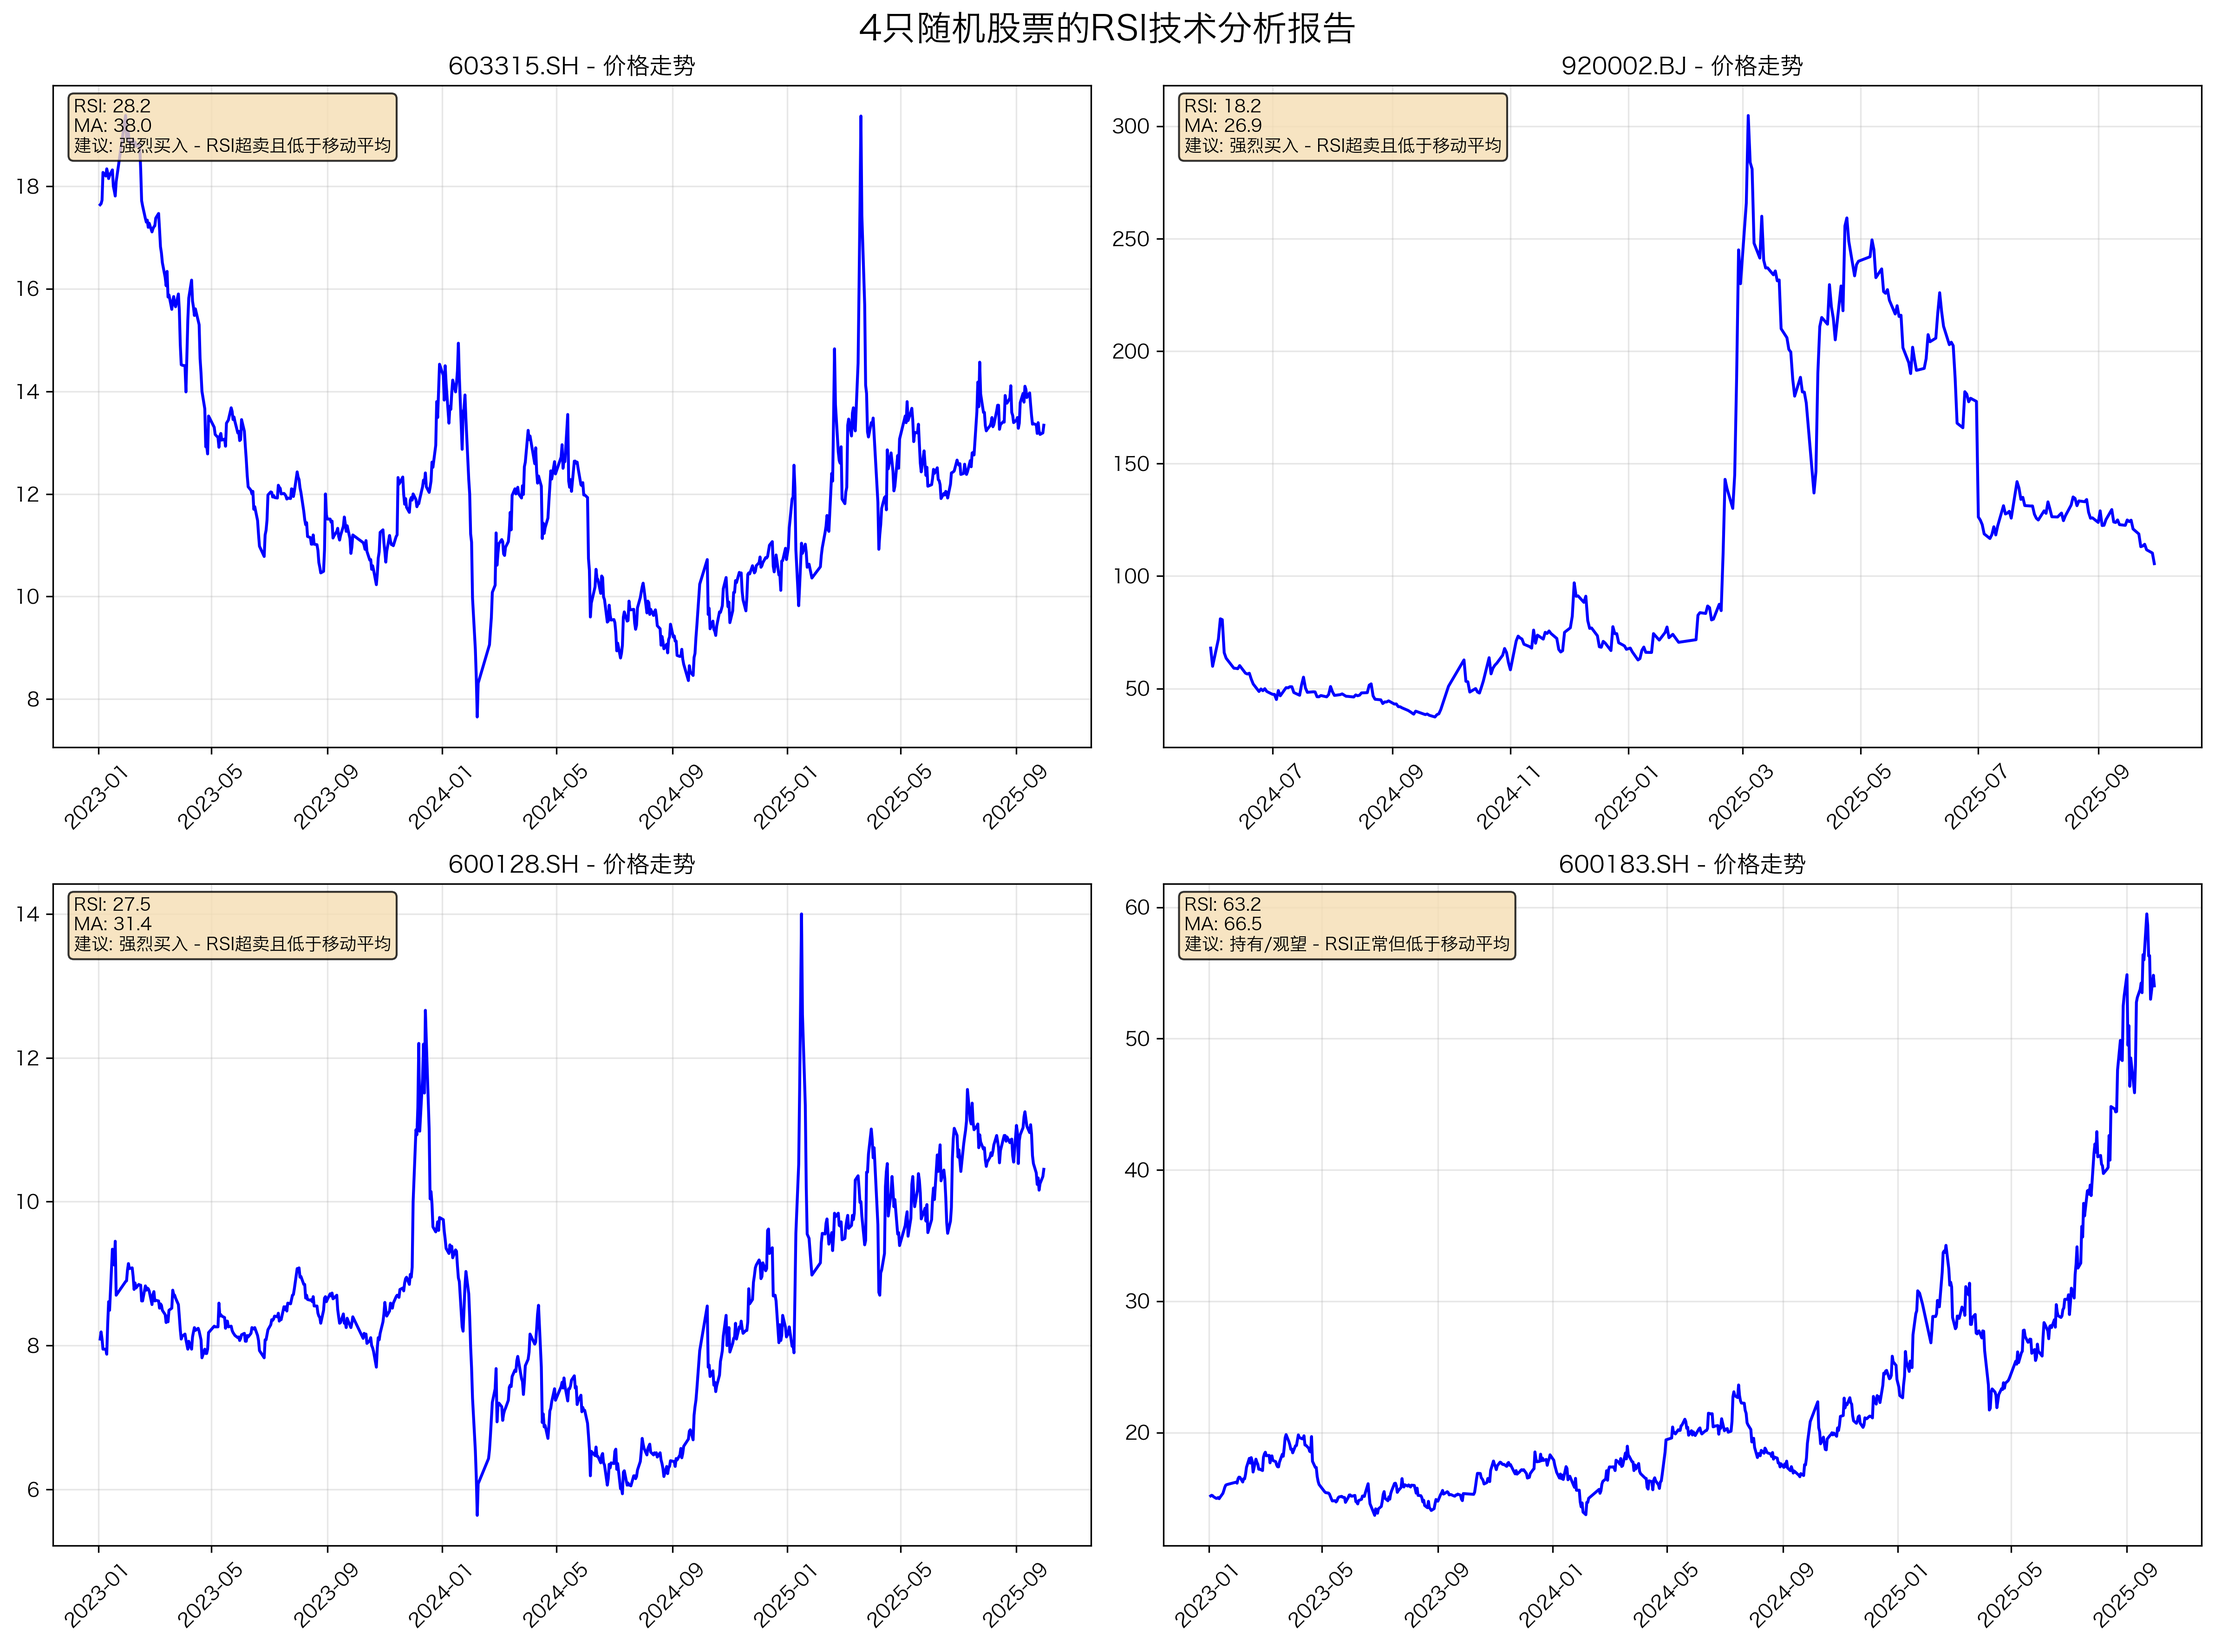
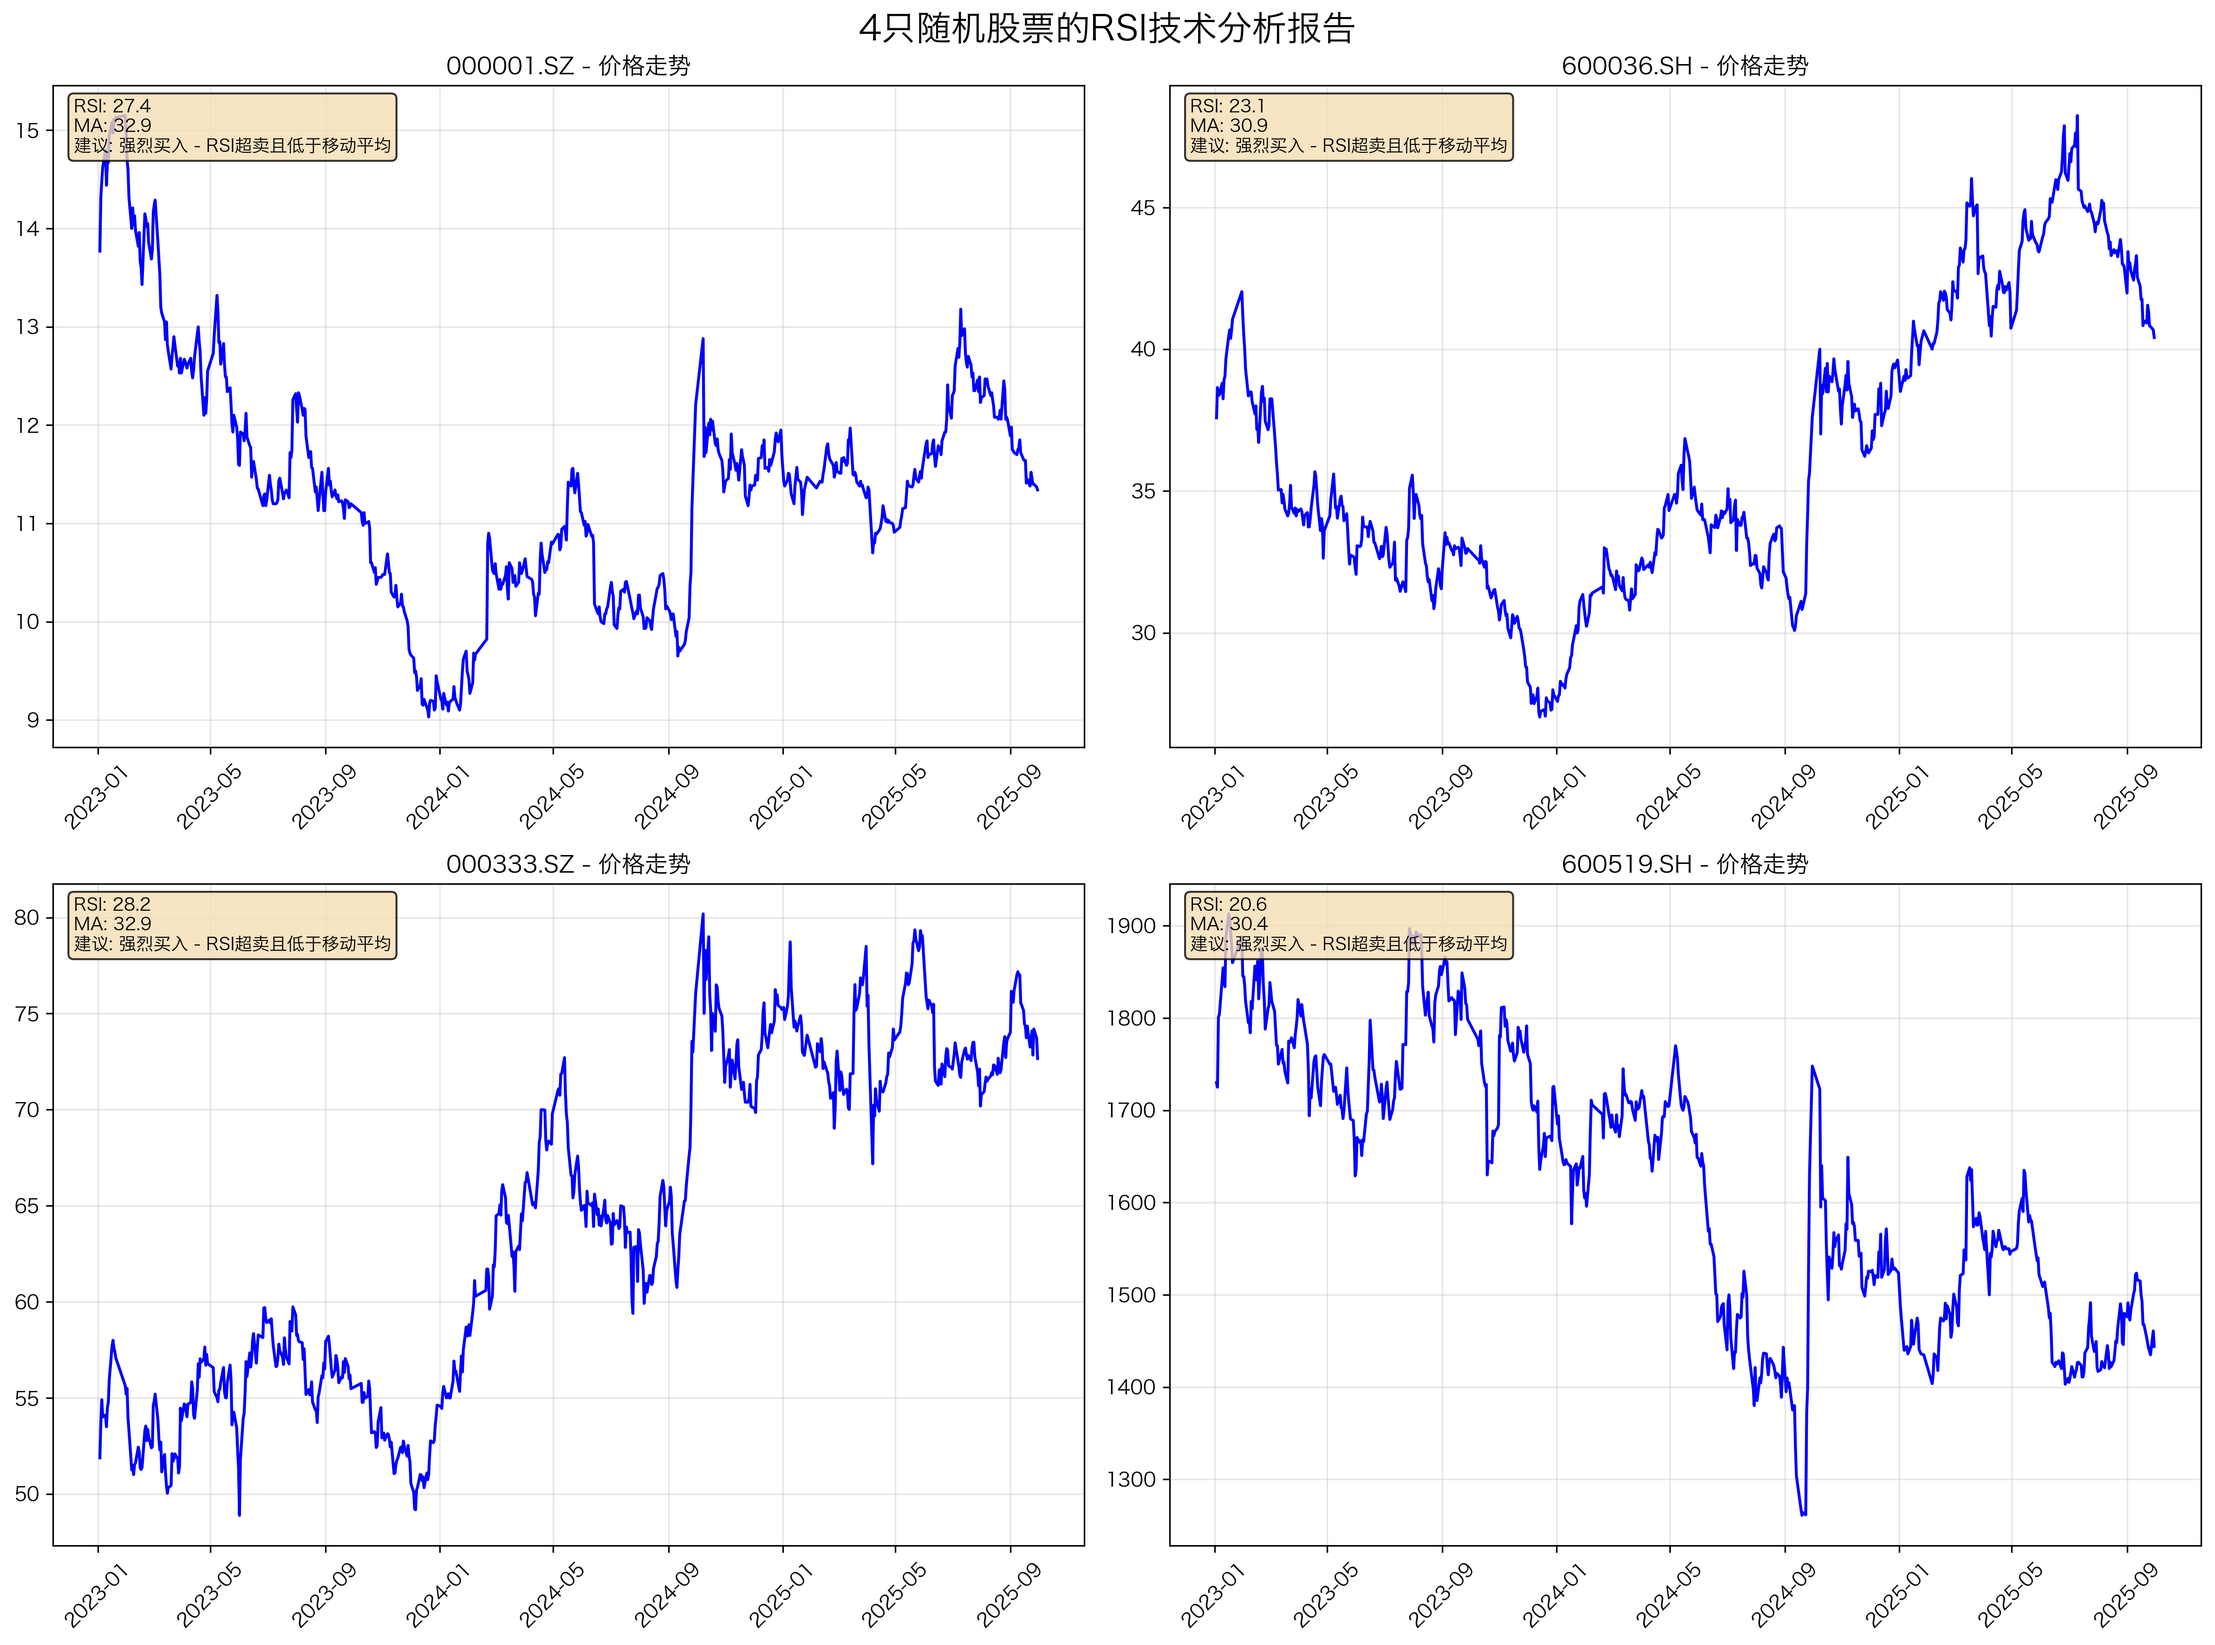
add rsi visualization

diff --git a/IBelive/core/strategy/rsi_visualization.py b/IBelive/core/strategy/rsi_visualization.py
@@ -213,18 +213,26 @@ def main():
     # 创建可视化实例
     visualizer = RSIVisualization()
     
-    # 随机选择4只股票
-    random_stocks = visualizer.get_random_stocks(4)
+    # 自定义股票选择 - 可以修改这里的股票代码列表
+    custom_stocks = [
+        "000001.SZ",  # 平安银行
+        "600036.SH",  # 招商银行
+        "000333.SZ",  # 美的集团
+        "600519.SH"   # 贵州茅台
+    ]
     
-    if not random_stocks:
-        print("❌ 无法获取随机股票，请确保RSI数据表存在并包含数据")
+    # 或者使用随机选择（取消注释下面这行，注释掉上面的custom_stocks）
+    # custom_stocks = visualizer.get_random_stocks(4)
+    
+    if not custom_stocks:
+        print("❌ 无法获取股票数据，请确保RSI数据表存在并包含数据")
         return
     
-    print(f"📊 选择的随机股票: {random_stocks}")
+    print(f"📊 选择的股票: {custom_stocks}")
     
     # 获取每只股票的RSI数据
     stocks_data = {}
-    for ts_code in random_stocks:
+    for ts_code in custom_stocks:
         print(f"🔍 获取股票 {ts_code} 的RSI数据...")
         rsi_data = visualizer.get_stock_rsi_data(ts_code)
         if rsi_data is not None:
